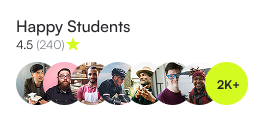
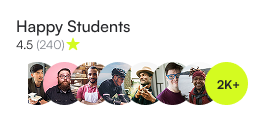
fix(hero): trim unwanted overlay artifact from Happy Students PNG image asset and raise green arch dome height behind headphones

Changed region(s): [[0.062, 0.5207, 0.124, 0.843]]

diff --git a/src/components/Hero.css b/src/components/Hero.css
@@ -83,7 +83,7 @@
 .arch-wrapper {
   position: relative;
   width: 780px;
-  height: 520px;
+  height: 560px;
   display: flex;
   justify-content: center;
   align-items: flex-end;
@@ -93,7 +93,7 @@
   position: absolute;
   bottom: 0;
   width: 780px;
-  height: 510px;
+  height: 550px;
   background-color: var(--primary-color);
   border-top-left-radius: 390px;
   border-top-right-radius: 390px;
@@ -103,7 +103,7 @@
 .hero-student-img {
   position: relative;
   z-index: 2;
-  height: 540px;
+  height: 560px;
   object-fit: contain;
   margin-bottom: 0;
   display: block;
